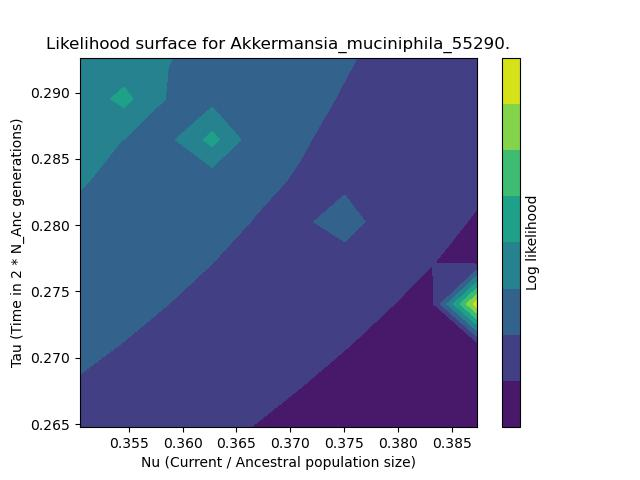
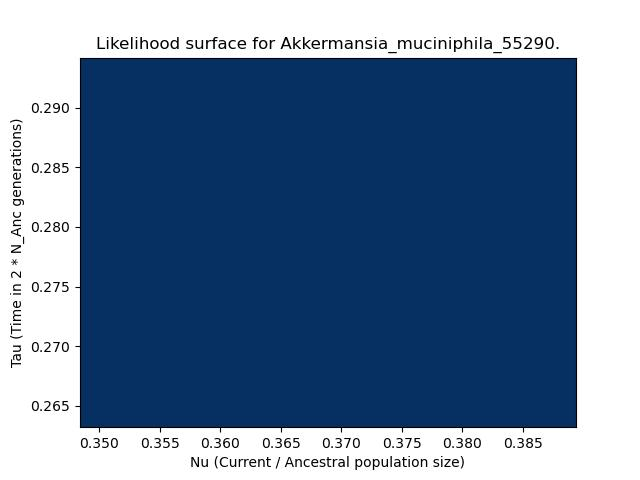
Plot likelihood test

diff --git a/Scripts/plot_likelihood.py b/Scripts/plot_likelihood.py
@@ -483,13 +483,13 @@ class PlotLikelihood():
                 # ax.plot_surface(X, Y, Z, cmap='viridis')
                 z_min, z_max = -numpy.abs(Z).max() - 5, -numpy.abs(Z).max()
                 # c = ax.pcolormesh(X, Y, Z, cmap='RdBu', vmin=z_min, vmax=z_max)
+                c = ax.pcolormesh(X, Y, Z, cmap='RdBu', vmin=z_min, vmax=z_max, label='Log likelihood')
                 ax.set_xlabel('Nu (Current / Ancestral population size)')
                 ax.set_ylabel('Tau (Time in 2 * N_Anc generations)')
-                contourplot = ax.contourf(X, Y, Z)
-                ticks = numpy.arange(z_min, z_max, 1.0)
-                cbar = fig.colorbar(contourplot, ticks=ticks) # Add a colorbar to a plot
-                cbar.ax.set_ylabel('Log likelihood')
-                # cbar.clim(z_min, z_max)
+                # contourplot = ax.contourf(X, Y, Z)
+                # ticks = numpy.arange(z_min, z_max, 1.0)
+                # cbar = fig.colorbar(contourplot, ticks=ticks) # Add a colorbar to a plot
+                # cbar.ax.set_ylabel('Log likelihood')
                 plt.title('Likelihood surface for {0}.'.format(species))
                 plt.savefig(file)
         logger.info('Finished plotting likelihood surface.')
